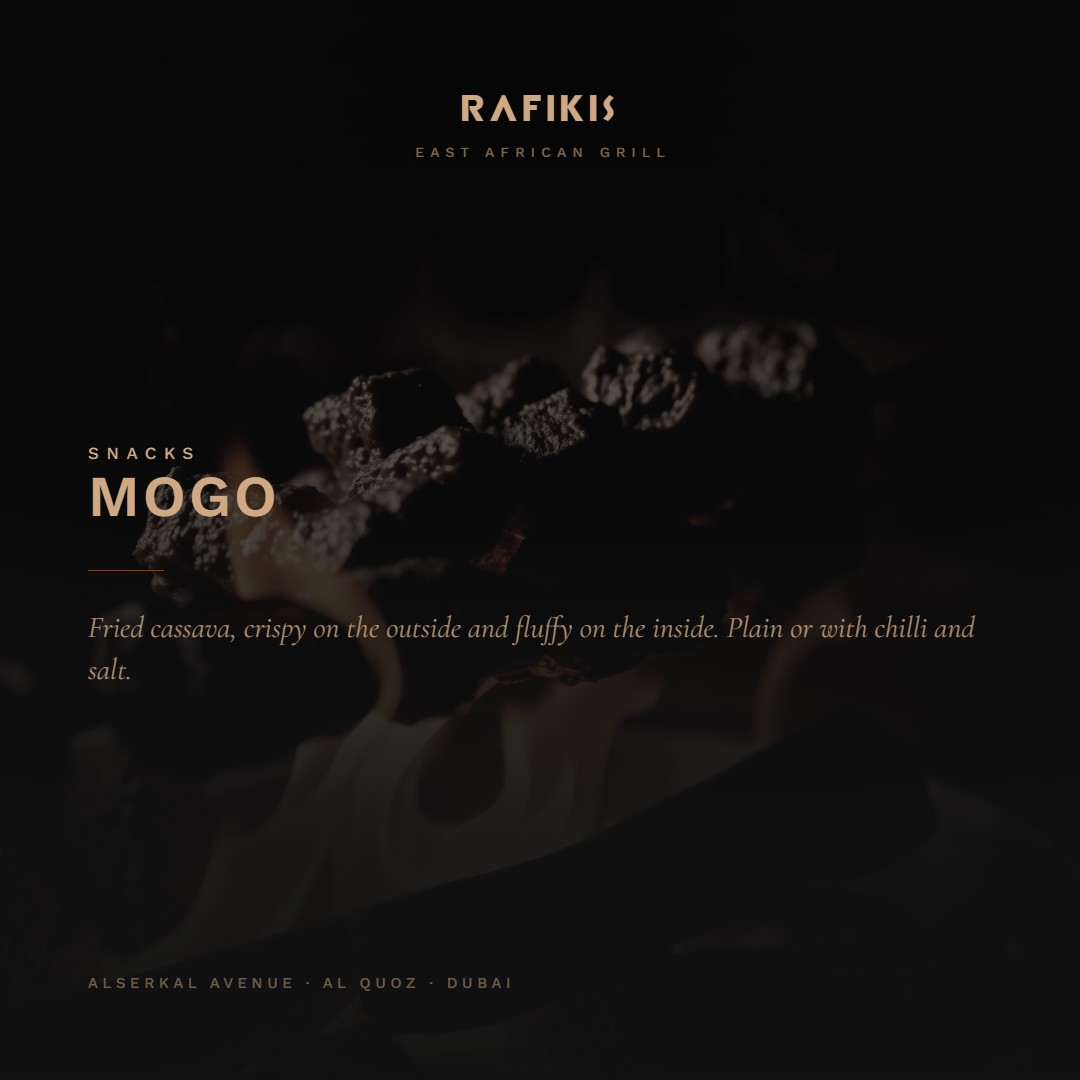
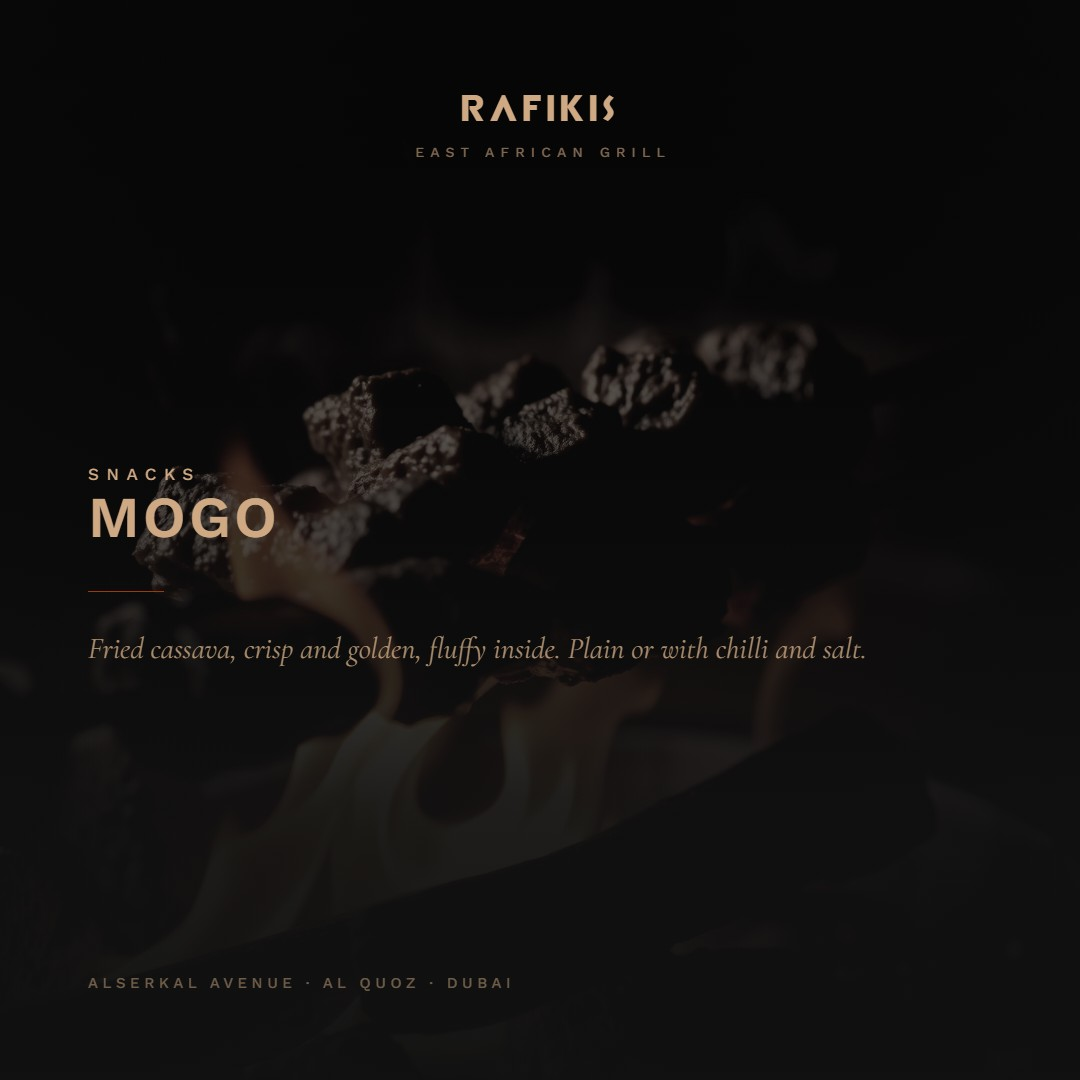
Match the supplied menu descriptions exactly
Four entries differed from the copy supplied; the rest already matched and
are untouched.

- Lamb Chops: "Marinated in garlic, ginger and Kenyan spices, then seared
  for a caramelised crust." becomes "Marinated in East African spices, then
  seared for a caramelised crust."
- Beef Samosas: the semicolon after "favourite" becomes a full stop, so it
  reads "An East African favourite. Hand-folded golden pastry filled with
  lightly spiced minced beef."
- Mogo: "Fried cassava, crispy on the outside and fluffy on the inside.
  Plain or with chilli and salt." becomes "Fried cassava, crisp and golden,
  fluffy inside. Plain or with chilli and salt."
- Mandazi renamed Mandazi (2 pcs), description shortened to "East African
  fried dough, golden outside and soft inside."
- Chai: "Black tea brewed with milk, ginger and cardamom for a warm, spiced
  finish." becomes "Kenyan chai, slow-brewed with milk and warming spices."

The matching social cards carry the same corrected copy, and the affected
cards are re-rendered.

Two small checkers are added so the menu and the cards cannot drift apart
again. scripts/probes/expected-menu.json is the copy of record, generated
from the page; scripts/check-menu-copy.py compares it against what the page
actually renders, and scripts/check-social-copy.py compares it against every
dish card in brand-templates/social.html.

Changed region(s): [[0.0611, 0.55, 0.8861, 0.6417], [0.0611, 0.3972, 0.275, 0.55]]

diff --git a/brand-templates/social.html b/brand-templates/social.html
@@ -155,7 +155,7 @@
           <h2 class="dish">Lamb Chops</h2>
           <div class="rule"></div>
           <p class="dish-note">
-            Marinated in garlic, ginger and Kenyan spices, then seared for a caramelised crust.
+            Marinated in East African spices, then seared for a caramelised crust.
           </p>
         </div>
         <p class="footer-line">Alserkal Avenue &middot; Al Quoz &middot; Dubai</p>
@@ -177,7 +177,7 @@
           <h2 class="dish">Beef Samosas</h2>
           <div class="rule"></div>
           <p class="dish-note">
-            An East African favourite; hand-folded golden pastry filled with lightly spiced minced
+            An East African favourite. Hand-folded golden pastry filled with lightly spiced minced
             beef.
           </p>
         </div>
@@ -200,8 +200,7 @@
           <h2 class="dish">Mogo</h2>
           <div class="rule"></div>
           <p class="dish-note">
-            Fried cassava, crispy on the outside and fluffy on the inside. Plain or with chilli and
-            salt.
+            Fried cassava, crisp and golden, fluffy inside. Plain or with chilli and salt.
           </p>
         </div>
         <p class="footer-line">Alserkal Avenue &middot; Al Quoz &middot; Dubai</p>
@@ -260,10 +259,10 @@
         </div>
         <div>
           <p class="eyebrow">Desserts</p>
-          <h2 class="dish">Mandazi</h2>
+          <h2 class="dish">Mandazi (2 pcs)</h2>
           <div class="rule"></div>
           <p class="dish-note">
-            East African fried dough, golden on the outside and soft and fluffy on the inside.
+            East African fried dough, golden outside and soft inside.
           </p>
         </div>
         <p class="footer-line">Alserkal Avenue &middot; Al Quoz &middot; Dubai</p>
@@ -285,7 +284,7 @@
           <h2 class="dish">Chai</h2>
           <div class="rule"></div>
           <p class="dish-note">
-            Black tea brewed with milk, ginger and cardamom for a warm, spiced finish.
+            Kenyan chai, slow-brewed with milk and warming spices.
           </p>
         </div>
         <p class="footer-line">Alserkal Avenue &middot; Al Quoz &middot; Dubai</p>

diff --git a/src/routes/index.tsx b/src/routes/index.tsx
@@ -46,8 +46,7 @@ const MENU: MenuSection[] = [
       },
       {
         name: "Lamb Chops",
-        description:
-          "Marinated in garlic, ginger and Kenyan spices, then seared for a caramelised crust.",
+        description: "Marinated in East African spices, then seared for a caramelised crust.",
       },
     ],
   },
@@ -58,12 +57,12 @@ const MENU: MenuSection[] = [
       {
         name: "Beef Samosas",
         description:
-          "An East African favourite; hand-folded golden pastry filled with lightly spiced minced beef.",
+          "An East African favourite. Hand-folded golden pastry filled with lightly spiced minced beef.",
       },
       {
         name: "Mogo",
         description:
-          "Fried cassava, crispy on the outside and fluffy on the inside. Plain or with chilli and salt.",
+          "Fried cassava, crisp and golden, fluffy inside. Plain or with chilli and salt.",
       },
     ],
   },
@@ -101,13 +100,12 @@ const MENU: MenuSection[] = [
         description: "Hot Kenyan chai poured over vanilla ice cream.",
       },
       {
-        name: "Mandazi",
-        description:
-          "East African fried dough, golden on the outside and soft and fluffy on the inside.",
+        name: "Mandazi (2 pcs)",
+        description: "East African fried dough, golden outside and soft inside.",
       },
       {
         name: "Chai",
-        description: "Black tea brewed with milk, ginger and cardamom for a warm, spiced finish.",
+        description: "Kenyan chai, slow-brewed with milk and warming spices.",
       },
     ],
   },

diff --git a/scripts/check-menu-copy.py b/scripts/check-menu-copy.py
@@ -1,0 +1,60 @@
+"""Check the rendered menu against expected-menu.json (build tooling).
+
+Reads the live page with scripts/probe.mjs and compares every dish name and
+description, character for character. Run the dev server first, then:
+
+    node scripts/probe.mjs --url=http://127.0.0.1:5199/ \
+        --file=scripts/probes/menu-content.js --width=1440 --height=900 > out.json
+    python scripts/check-menu-copy.py out.json
+"""
+
+from __future__ import annotations
+
+import json
+import sys
+from pathlib import Path
+
+HERE = Path(__file__).resolve().parent
+EXPECTED = HERE / "probes" / "expected-menu.json"
+
+
+def main() -> None:
+    if len(sys.argv) < 2:
+        raise SystemExit("usage: python scripts/check-menu-copy.py <probe-output.json>")
+    raw = Path(sys.argv[1]).read_text(encoding="utf-8")
+    data = json.loads(raw[raw.index("{") :])
+    expected = json.loads(EXPECTED.read_text(encoding="utf-8"))
+
+    problems: list[str] = []
+    seen: set[str] = set()
+
+    for section, dishes in expected.items():
+        panel = data.get(section)
+        if not isinstance(panel, dict):
+            problems.append(f"{section}: not found in the rendered page")
+            continue
+        rendered = {d["name"]: d["description"] for d in panel["dishes"]}
+        for name, description in dishes.items():
+            seen.add(name)
+            if name not in rendered:
+                problems.append(f"{section}: {name!r} missing")
+            elif rendered[name] != description:
+                problems.append(
+                    f"{section}: {name}\n    want: {description}\n    got : {rendered[name]}"
+                )
+        for name in rendered:
+            if name not in dishes:
+                problems.append(f"{section}: unexpected dish {name!r}")
+
+    total = sum(len(v) for v in expected.values())
+    print(f"checked {len(seen)} of {total} dishes against expected-menu.json")
+    if problems:
+        print()
+        for problem in problems:
+            print(f"  {problem}")
+        raise SystemExit(1)
+    print("every menu name and description matches exactly")
+
+
+if __name__ == "__main__":
+    main()

diff --git a/scripts/check-social-copy.py b/scripts/check-social-copy.py
@@ -1,0 +1,56 @@
+"""Verify the social card copy matches the menu (build tooling).
+
+Extracts every dish name and note from brand-templates/social.html and compares
+them with scripts/probes/expected-menu.json, so a card cannot drift from the
+menu it advertises.
+
+Usage: python scripts/check-social-copy.py
+"""
+
+from __future__ import annotations
+
+import json
+import re
+import sys
+from pathlib import Path
+
+ROOT = Path(__file__).resolve().parent.parent
+HTML = ROOT / "brand-templates" / "social.html"
+EXPECTED = ROOT / "scripts" / "probes" / "expected-menu.json"
+
+CARD = re.compile(
+    r'<h2 class="dish">(?P<name>.*?)</h2>.*?<p class="dish-note">(?P<note>.*?)</p>',
+    re.DOTALL,
+)
+
+
+def main() -> None:
+    html = HTML.read_text(encoding="utf-8")
+    expected: dict[str, dict[str, str]] = json.loads(EXPECTED.read_text(encoding="utf-8"))
+    # Flatten to name -> description, since a dish can only read one way.
+    wanted = {name: note for dishes in expected.values() for name, note in dishes.items()}
+
+    cards = [
+        (m.group("name").strip(), " ".join(m.group("note").split())) for m in CARD.finditer(html)
+    ]
+
+    problems = []
+    for name, note in cards:
+        if name not in wanted:
+            problems.append(f"{name!r} is not on the menu")
+        elif wanted[name] != note:
+            problems.append(f"{name}\n    menu: {wanted[name]}\n    card: {note}")
+
+    print(f"found {len(cards)} dish cards in social.html")
+    for name, _ in cards:
+        print(f"  {name}")
+    if problems:
+        print("\nmismatches:")
+        for problem in problems:
+            print(f"  {problem}")
+        raise SystemExit(1)
+    print("\nevery card matches the menu copy exactly")
+
+
+if __name__ == "__main__":
+    main()
